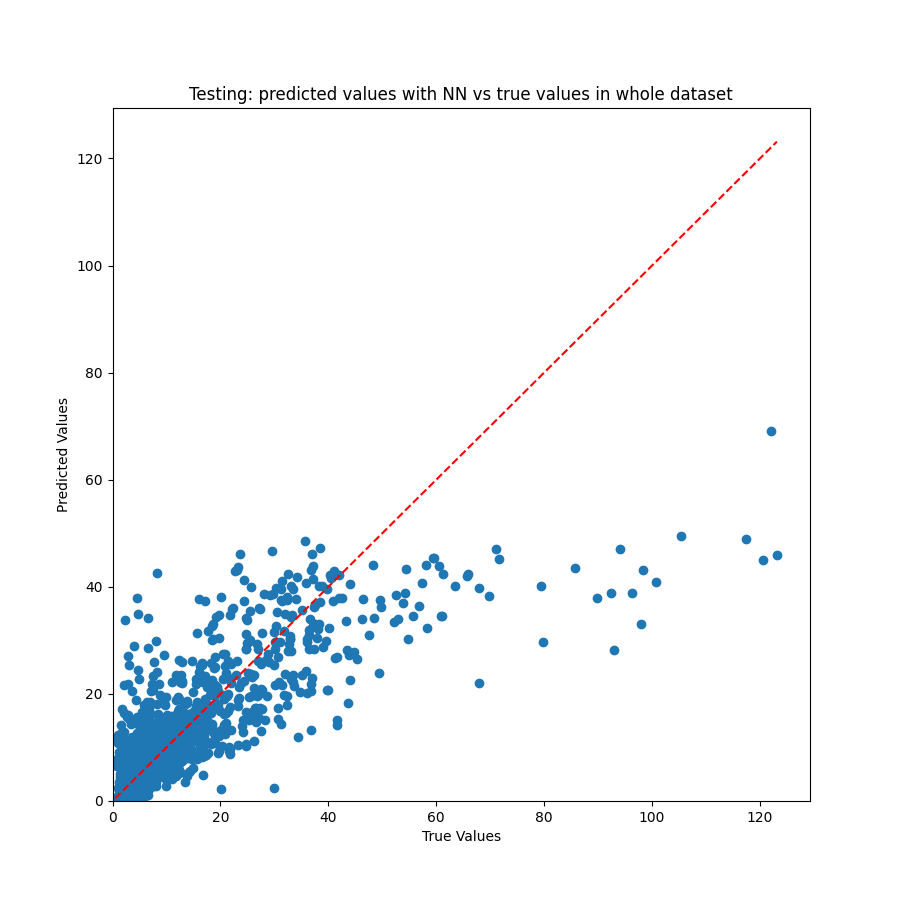
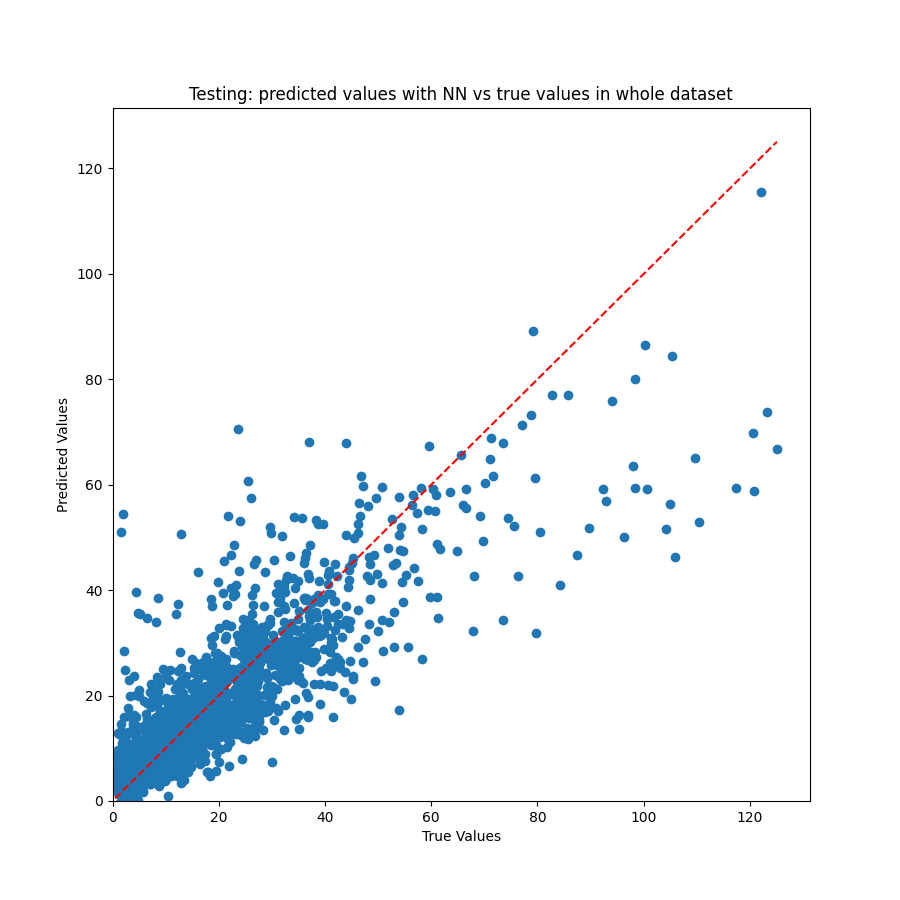
basic ANN MLP working. Parameters tuned

diff --git a/src/predict_BC_class.py b/src/predict_BC_class.py
@@ -11,9 +11,21 @@ import torch
 import torch.nn as nn
 import torch.optim as optim
 from torch.utils.data import DataLoader, TensorDataset
+from sklearn.neural_network import MLPRegressor
+from sklearn.datasets import make_regression
+
+class Perceptron(torch.nn.Module):
+    def __init__(self, num_features, num_hidden):
+        super(Perceptron, self).__init__()
+        self.fc = nn.Linear(1,1)
+        self.relu = torch.nn.ReLU() # instead of Heaviside step fn
+    def forward(self, x):
+        output = self.fc(x)
+        output = self.relu(x) # instead of Heaviside step fn
+        return output
 
 class predict_BC_lib():
-    alpha = 0.8
+    alpha = 0.06
     no_param_found = "In cv, we could not find hyper parameters for which the difference between error validation and error training is inferior to alpha = "
     def print_nan_per(self, df):
         nb_rows = len(df.index)
@@ -23,7 +35,7 @@ class predict_BC_lib():
 
     def remove_nan(self, df): 
         nb_rows_original = len(df.index)
-        columns_to_remove = ["WD", "WS", "Temp", "RF", "RH"]
+        columns_to_remove = ["WD", "WS", "Temp", "RF"]
         df = df.drop(columns_to_remove, axis = 1)
         #print("We removed the columns: " + str(columns_to_remove))
         df = df.dropna()
@@ -77,7 +89,7 @@ class predict_BC_lib():
         ax.set_title('Testing: true vs predicted values with ' + method + ' in ' + str(season))
         #plt.show()
         ax.legend()
-        fig.savefig('../img/' + method + '_without_RH/predictedANDtrue_'+ method +'_' + season + '.png')
+        fig.savefig('../img/' + method + '/predictedANDtrue_'+ method +'_' + season + '.png')
 
     ##plot scatter of true values against prediction 
     def trueVSpred_scatter_plot(self, Y_true, Y_prediction, method, season):
@@ -90,7 +102,7 @@ class predict_BC_lib():
         ax.set_ylabel('Predicted Values')
         ax.set_title('Testing: predicted values with ' + method + ' vs true values in ' + str(season))
         #plt.show()
-        fig.savefig('../img/' + method + '_without_RH/predictedVStrue_'+ method +'_' + season + '.png')
+        fig.savefig('../img/' + method + '/predictedVStrue_'+ method +'_' + season + '.png')
 
     def split(self, df):
         winter_df = df[(df['date'].dt.month >= 12) | (df['date'].dt.month <= 2)]
@@ -175,9 +187,9 @@ class predict_BC_lib():
             gammas = [best_params[1]]
             epsilons = [best_params[2]]
         else: 
-            Cs = [1, 10, 100]
-            gammas = [0.001, 0.01, 0.1]
-            epsilons = [0.01, 0.1, 1]
+            Cs = [1, 5, 10, 50, 100]
+            gammas = [0.0001, 0.001, 0.01, 0.1, 1]
+            epsilons = [0.001, 0.01, 0.1, 1, 10]
         #kernels = ["rbf", "poly", "sigmoid"]
         param_grid = { 'C' : Cs, 'gamma': gammas, 'epsilon': epsilons}#, 'kernel': kernels}
         svr_estimator = svm.SVR()
@@ -202,25 +214,89 @@ class predict_BC_lib():
             data_predict_train = svr_estimator.predict(X)
             return svr_estimator, [best_c, best_gamma, best_eps], data_predict_train, -error_train, -error_validation
     
-    def train_NN(self, X_train, Y_train, X_validation, Y_validation, scoring, best_params): 
+    def train_NN(self, X, Y, scoring, best_params): 
+        param_grid = {
+            'hidden_layer_sizes': [(50,), (100, 50), (100, 100, 50)],
+            'activation': ['relu'],#'logistic'
+            'solver': ['adam'], #'sgd', 
+            'alpha': [0.001],#0.0001, , 0.01
+            'learning_rate': ['constant', 'adaptive']
+        }
+        kfold = 10
         if best_params != 'null':
-            num_layers = best_params[0]
-            learning_rate = best_params[1]
-            nb_epochs = best_params[2]
-            hidden_size = best_params[3]
+            nb_neurons = [best_params[0]]
+            activation = [best_params[1]]
+            optimizer = [best_params[2]]
+            alpha = [best_params[3]]
+            learning_rate = [best_params[4]]
         else: 
-            num_layers = [1, 2, 3, 4]
-            learning_rate = [0.001, 0.01, 0.1]
+            """nb_neurons = [(50,), (100, 50), (100, 100, 50)]
+            activation = ['logistic', 'relu']
+            optimizer = ['sgd', 'adam']
+            alpha = [0.0001, 0.001, 0.01]
+            learning_rate = ['constant', 'adaptive']"""
+            nb_neurons = [(50,), (100, 50), (100, 100, 50)]
+            activation = ['relu']
+            optimizer = ['adam']
+            alpha = [0.0001, 0.001, 0.01]
+            learning_rate = ['constant', 'adaptive']
+            
+        param_grid = { 'hidden_layer_sizes' : nb_neurons, 'activation': activation, 'solver': optimizer, 'alpha': alpha, 'learning_rate': learning_rate}
+        mlp_estimator = MLPRegressor(random_state=1, max_iter=50)
+        search = GridSearchCV(mlp_estimator, scoring = scoring, param_grid = param_grid, cv = kfold, refit = False, return_train_score=True, verbose=10)
+        search.fit(X, np.ravel(Y))
+        cv_scores_df = pd.DataFrame.from_dict(search.cv_results_)
+        cv_scores_df["keep"] = cv_scores_df.apply(lambda x: 1 if np.absolute(x.mean_train_score - x.mean_test_score) < predict_BC_lib.alpha else 0, axis = 1)        
+        if len(cv_scores_df.index) == 0:
+            print(predict_BC_lib.no_param_found + str(predict_BC_lib.alpha))
+            return 0, 0, 0, 0, 0
+        else: 
+            best = cv_scores_df.loc[cv_scores_df["mean_test_score"].idxmax()]
+            error_train = best["mean_train_score"]
+            error_validation = best["mean_test_score"]
+
+            best_hidden_layer_sizes = best['param_hidden_layer_sizes']
+            best_activation = best['param_activation']
+            best_solver = best['param_solver']
+            best_alpha = best['param_alpha']
+            best_learning_rate = best['param_learning_rate']
+
+            mlp_estimator = MLPRegressor(hidden_layer_sizes = best_hidden_layer_sizes, activation = best_activation, solver = best_solver, alpha = best_alpha, learning_rate = best_learning_rate)
+            mlp_estimator.fit(X, np.ravel(Y))
+            data_predict_train = mlp_estimator.predict(X)
+            return mlp_estimator, [best_hidden_layer_sizes, best_activation, best_solver, best_alpha, best_learning_rate], data_predict_train, -error_train, -error_validation
+        """if best_params != 'null':
+        ok  learning_rate = best_params[0]
+        ok  nb_layers = best_params[1]
+        ok  nb_neurons = best_params[2]
+        ok  activation_fct = best_params[3]
+            regularization = best_params[4]
+        ok  nb_epochs = best_params[5]
+        ok  batch_size = best_params[6] 
+        ok  optimizer = best_params[7]
+        else: 
+            num_layers = [0.001, 0.01, 0.1]
+            learning_rate = []
             nb_epochs = [10, 30, 50, 100]
             hidden_size = []
-        train = data_utils.TensorDataset(torch.Tensor(np.array(X_train)), torch.Tensor(np.array(Y_train)))
-        train_loader = data_utils.DataLoader(train, batch_size=10, shuffle=True)
-        torch.manual_seed(42)
+        
+        
+#-----------------------------------------------------------------------------------------------------------------
 
-        mlp = nn.Sequential(nn.Linear(X_train.shape[1], hidden_size), nn.ReLU(), nn.Linear(hidden_size, 1))
+        train = data_utils.TensorDataset(torch.Tensor(np.array(X)), torch.Tensor(np.array(Y)))
+        train_loader = data_utils.DataLoader(train, batch_size=batch_size, shuffle=True)
+        P = len(X_train.columns)
+        torch.manual_seed(42)
+        mlp = MLP(P, nb_layers, nb_neurons, activation_fct)
 
         loss_function = nn.MSELoss(size_average=False)
-        SGD_optimizer = torch.optim.Adam(mlp.parameters(), lr=learning_rate)
+        if optimizer == 'Adam':
+            optimizer = torch.optim.Adam(mlp.parameters(), lr=learning_rate) 
+        elif optimizer == 'SGD':
+            optimizer = torch.optim.SGD(mlp.parameters(), lr=learning_rate) 
+
+        for epoch in range(nb_epochs): 
+
         for epoch in range(nb_epochs): 
             print(f'Starting epoch {epoch+1}')
             current_loss = 0.0
@@ -237,14 +313,15 @@ class predict_BC_lib():
             train_predicted_Y = mlp(torch.Tensor(np.array(X_train)))
             valid_predicted_Y = mlp(torch.Tensor(np.array(X_validation)))
 
+#-----------------------------------------------------------------------------------------------------------------
+
         train_predicted_Y_np = train_predicted_Y.detach().numpy()
         valid_predicted_Y_np = valid_predicted_Y.detach().numpy()
-        
         if scoring == 'neg_mean_squared_error':
             error_train = np.sqrt(mean_squared_error(Y_train, train_predicted_Y))
             error_validation = np.sqrt(mean_squared_error(Y_validation, valid_predicted_Y))
         elif scoring == 'neg_mean_absolute_error':
             error_train = np.sqrt(mean_absolute_error(Y_train, train_predicted_Y))
-            error_validation = mean_absolute_error(Y_validation, valid_predicted_Y)
+            error_validation = mean_absolute_error(Y_validation, valid_predicted_Y)"""
 
         return  mlp, best_params, train_predicted_Y_np, error_train, error_validation

diff --git a/src/predict_BC.py b/src/predict_BC.py
@@ -8,6 +8,8 @@ from sklearn.metrics import mean_squared_error, r2_score, mean_absolute_error
 from sklearn.ensemble import RandomForestRegressor
 from sklearn import svm
 import torch
+from sklearn.neural_network import MLPRegressor
+from sklearn.datasets import make_regression
 
 lib = predict_BC_lib()
 
@@ -23,22 +25,14 @@ def train_test_ML(df, method, scoring, season, best_parameters):
     #store the number of features
     nb_col = len(df.columns)
     train, test = train_test_split(df, test_size=0.33, random_state=42)
-    if method == 'NN':
-        train, validation = train_test_split(train, test_size=0.19, random_state=42)
     #the index is usefull to recover temporality and draw plots, so let us store it. 
     train_index = train.index
-    if method == 'NN':
-        validation_index = validation.index
     test_index = test.index
 
     #standardize
     scaler = preprocessing.StandardScaler()
     scaler.fit(train)
     train_df = pd.DataFrame(scaler.transform(train), columns=train.columns, index=train_index)
-    if method == 'NN':
-        validation_df = pd.DataFrame(scaler.transform(validation), columns=validation.columns, index=validation_index)
-        X_validation = validation_df.drop("BC", axis = 1)
-        Y_validation = validation_df[["BC"]]
     test_df = pd.DataFrame(scaler.transform(test), columns=test.columns, index=test_index)
 
     #Training
@@ -46,11 +40,11 @@ def train_test_ML(df, method, scoring, season, best_parameters):
     Y_train = train_df[["BC"]]
     et = time.time()
     if method == 'SVR':
-        model, best_parameters, train_predicted_Y, error_train, error_validation = lib.train_SVR(X_train,Y_train, scoring, best_parameters[season])
+        model, best_parameters, train_predicted_Y, error_train, error_validation = lib.train_SVR(X_train, Y_train, scoring, best_parameters[season])
     elif method == 'RF':
-        model, best_parameters, train_predicted_Y, error_train, error_validation = lib.train_RF(X_train,Y_train, scoring, best_parameters[season])
+        model, best_parameters, train_predicted_Y, error_train, error_validation = lib.train_RF(X_train, Y_train, scoring, best_parameters[season])
     elif method == 'NN':
-        model, best_parameters, train_predicted_Y, error_train, error_validation = lib.train_NN(X_train,Y_train, X_validation, Y_validation, scoring, best_parameters[season])
+        model, best_parameters, train_predicted_Y, error_train, error_validation = lib.train_NN(X_train, Y_train, scoring, best_parameters[season])
     st = time.time()
     elapsed_time = (et - st) / 60
     if (model, best_parameters, train_predicted_Y, error_train, error_validation) == (0, 0, 0, 0, 0):
@@ -76,11 +70,11 @@ def train_test_ML(df, method, scoring, season, best_parameters):
     elif method == 'RF':
         model = RandomForestRegressor(n_estimators = best_parameters[0], max_features = best_parameters[1], max_depth = best_parameters[2])
         model.fit(X_test, np.ravel(Y_test))
-        test_predicted_Y = model.predict(X_test)    
+        test_predicted_Y = model.predict(X_test)   
     elif method == 'NN':
-        with torch.no_grad():
-            test_predicted_Y = model(torch.Tensor(np.array(X_test)))
-        test_predicted_Y = test_predicted_Y.detach().numpy()
+        model = MLPRegressor(hidden_layer_sizes = best_parameters[0], activation = best_parameters[1], solver = best_parameters[2], alpha = best_parameters[3], learning_rate = best_parameters[4])
+        model.fit(X_test, np.ravel(Y_test))
+        test_predicted_Y = model.predict(X_test)     
 
     unscaled_test_Y, unscaled_test_predicted_Y = lib.destandardize(Y_test, test_predicted_Y, scaler, nb_col)
     

diff --git a/src/main.py b/src/main.py
@@ -5,16 +5,16 @@ from predict_BC_class import predict_BC_lib
 ## --------------- DEFINING VARIABLES --------------- ##
 
 data_path = "../data/BC_Exposure_data_set_for_Delhi_2018-2019.xlsx"
-method = 'SVR' 
+method = 'NN' 
 #method = 'RF'
 #dictonnaries with the best hyper parameters already found during the training. 
 best_param = {}
 if method == 'SVR': 
-    best_param["whole dataset"] = [10, 0.1, 0.1]#[10, 0.1, 0.1] WITH RH
-    best_param["winter"] = [100, 0.1, 0.1]#[100, 0.1, 0.01] WITH RH
-    best_param["pre_monsoon"] = [10, 0.1, 0.1]#[10, 0.1, 0.1] WITH RH
-    best_param["summer"] = [10, 0.1, 0.1]#[100, 0.1, 0.01] WITH RH
-    best_param["post_monsoon"] = [10, 0.1, 0.1]#[10, 0.1, 0.01] WITH RH
+    best_param["whole dataset"] = 'null' #[10, 0.1, 0.1]#[10, 0.1, 0.1] WITH RH
+    best_param["winter"] = 'null' #[100, 0.1, 0.1]#[100, 0.1, 0.01] WITH RH
+    best_param["pre_monsoon"] = 'null' #[10, 0.1, 0.1]#[10, 0.1, 0.1] WITH RH
+    best_param["summer"] = 'null' #[10, 0.1, 0.1]#[100, 0.1, 0.01] WITH RH
+    best_param["post_monsoon"] = 'null' #[10, 0.1, 0.1]#[10, 0.1, 0.01] WITH RH
 elif method == 'RF':
     best_param["whole dataset"] = [500, 10, 5]
     best_param["winter"] = [10, 1, 3]
@@ -22,19 +22,24 @@ elif method == 'RF':
     best_param["summer"] = [500, 15, 3]
     best_param["post_monsoon"] = [500, 20, 3]
 elif method == 'NN':
-    best_param["whole dataset"] = [2, 0.001, 5, 32]
+    #IVA best_param["whole dataset"] = [2, 0.001, 5, 32]
+    best_param["whole dataset"] = [(100, 100, 50), 'relu', 'adam', 0.01, 'constant']
+    best_param["winter"] = 'null'
+    best_param["pre_monsoon"] = 'null'
+    best_param["summer"] = 'null'
+    best_param["post_monsoon"] = 'null'
 
-#scoring = 'neg_mean_squared_error'
-scoring = 'neg_mean_absolute_error' 
+scoring = 'neg_mean_squared_error'
+#scoring = 'neg_mean_absolute_error' 
 
 ## --------------- PROCESSING --------------- ##
 lib = predict_BC_lib()
-## Whole dataset 
+"""## Whole dataset 
 df = pd.read_excel(data_path)
 df = lib.remove_nan(df)
 df['date'] = pd.to_datetime(df['date'], format='%d-%m-%Y')
 metrics = train_test_ML(df, method, scoring, "whole dataset", best_param)
-print(metrics)
+print(metrics)"""
 
 ## Seasonal subset 
 #split df into seasons
